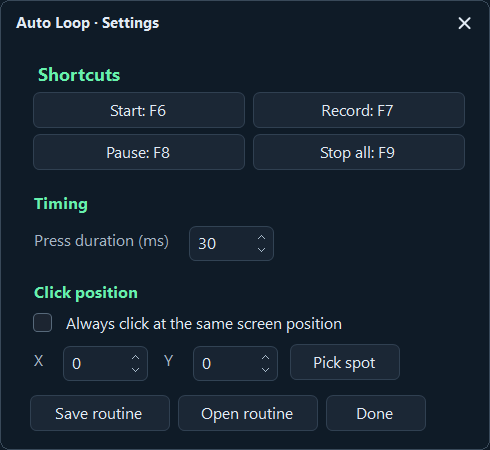
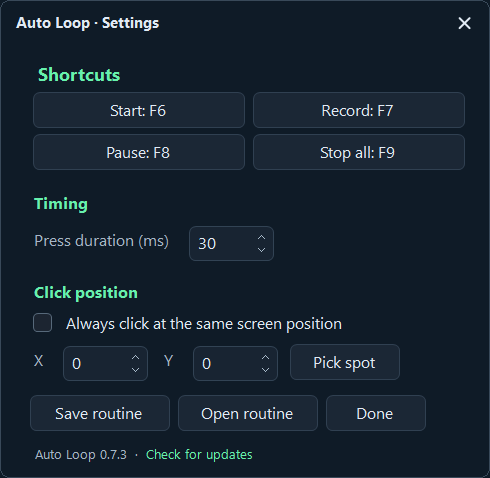
Auto Loop 0.7.3: exact speed, safer settings, version in Settings
- Settings shows the version and a Check for updates link
- Repeats keep the configured speed; 1 ms timer while playing
- Damaged settings.xml kept as settings.bad.xml, never overwritten
- Internal and hook errors reported as errors
- Recording stops cleanly if Windows drops the input hooks
- 82 self-tests (was 77); refreshed screenshot and docs

diff --git a/AutoLoop.cs b/AutoLoop.cs
@@ -12,8 +12,8 @@ using System.Xml.Serialization;
 
 [assembly: System.Reflection.AssemblyTitle("Auto Loop")]
 [assembly: System.Reflection.AssemblyProduct("Auto Loop")]
-[assembly: System.Reflection.AssemblyVersion("0.7.2.0")]
-[assembly: System.Reflection.AssemblyFileVersion("0.7.2.0")]
+[assembly: System.Reflection.AssemblyVersion("0.7.3.0")]
+[assembly: System.Reflection.AssemblyFileVersion("0.7.3.0")]
 namespace AutoLoop {
     public class Step {
         public string Kind = "Wait";
@@ -203,6 +203,8 @@ namespace AutoLoop {
         readonly Dictionary<uint,bool> elevationCache=new Dictionary<uint,bool>(); bool? selfElevated;
         // Input that happens this close to a focus change is treated as the action that caused it.
         const int FocusSwitchWindowMs=250;
+        const string ReleasesUrl="https://github.com/RikkYS/Auto-Loop/releases/latest";
+        internal static string AppVersion{get{Version v=typeof(MainForm).Assembly.GetName().Version;return v.Major+"."+v.Minor+"."+v.Build;}}
         // Waits may shorten by up to one timer tick to keep the repeat rate exact. A longer stall restarts the schedule instead, so presses never merge.
         const long MaxCatchUpMs=16;
         public static string KeyName(int key) { return new KeysConverter().ConvertToString((Keys)key); }
@@ -290,7 +292,7 @@ namespace AutoLoop {
 
         void ScaleCompactFonts(Control root){List<Control> all=new List<Control>();Action<Control> walk=null;walk=delegate(Control c){all.Add(c);foreach(Control child in c.Controls)walk(child);};walk(root);float fontFactor=0.74f*UiScale.Simulated,itemFactor=0.74f*UiScale.Layout;Font[] fonts=all.Select(c=>new Font(c.Font.FontFamily,c.Font.Size*fontFactor,c.Font.Style)).ToArray();for(int i=0;i<all.Count;i++){all[i].Font=fonts[i];DarkComboBox combo=all[i] as DarkComboBox;if(combo!=null)combo.ItemHeight=(int)(combo.ItemHeight*itemFactor);}keyCapture.Size=mouse.Size;events.ItemHeight=UiScale.Px(24);recordCount.Visible=false;}
         void BuildSettings() {
-            settingsWindow=new ThemedDialog{Text="Auto Loop · Settings",ClientSize=new Size(490,450),Font=new Font("Segoe UI",12),BackColor=bg,ForeColor=ink,StartPosition=FormStartPosition.CenterParent,FormBorderStyle=FormBorderStyle.None,MaximizeBox=false,MinimizeBox=false};
+            settingsWindow=new ThemedDialog{Text="Auto Loop · Settings",ClientSize=new Size(490,478),Font=new Font("Segoe UI",12),BackColor=bg,ForeColor=ink,StartPosition=FormStartPosition.CenterParent,FormBorderStyle=FormBorderStyle.None,MaximizeBox=false,MinimizeBox=false};
             FlowLayoutPanel page=new FlowLayoutPanel{Dock=DockStyle.Fill,Padding=new Padding(18),FlowDirection=FlowDirection.TopDown,WrapContents=false,AutoScroll=true};settingsWindow.Controls.Add(page);
             page.Controls.Add(new Label{Text="Shortcuts",Font=new Font("Segoe UI",13,FontStyle.Bold),AutoSize=true,ForeColor=accent});
             FlowLayoutPanel keyRow=new FlowLayoutPanel{Width=446,Height=88,WrapContents=true};string[] names={"Start","Record","Pause","Stop"};for(int i=0;i<4;i++){int n=i;shortcuts[i]=ButtonFor(names[i],212);shortcuts[i].Click+=delegate{ChangeShortcut(n);};keyRow.Controls.Add(shortcuts[i]);}page.Controls.Add(keyRow);
@@ -299,7 +301,11 @@ namespace AutoLoop {
             page.Controls.Add(new Label{Text="Click position",Font=new Font("Segoe UI",12,FontStyle.Bold),AutoSize=true,ForeColor=accent,Margin=new Padding(0,12,0,5)});
             fixedPosition=new MintCheckBox{Text="Always click at the same screen position",AutoSize=true};page.Controls.Add(fixedPosition);
             FlowLayoutPanel position=Row();position.Dock=DockStyle.None;position.Width=446;position.Height=42;px=Number(-100000,100000,0,85);py=Number(-100000,100000,0,85);Button pick=ButtonFor("Pick spot",110);tips.SetToolTip(pick,"Click here, then click the spot on screen Auto Loop should click.");pick.Click+=delegate{settingsWindow.Hide();StartPick(PickKind.Spot);};position.Controls.Add(LabelFor("X"));position.Controls.Add(px);position.Controls.Add(LabelFor("Y"));position.Controls.Add(py);position.Controls.Add(pick);page.Controls.Add(position);
-            FlowLayoutPanel files=Row();files.Dock=DockStyle.None;files.Width=446;files.Height=44;Button save=ButtonFor("Save routine",140);save.Click+=delegate{SaveRoutine();};Button open=ButtonFor("Open routine",140);open.Click+=delegate{LoadRoutine();};Button done=ButtonFor("Done",100);done.DialogResult=DialogResult.OK;files.Controls.Add(save);files.Controls.Add(open);files.Controls.Add(done);page.Controls.Add(files);settingsWindow.AcceptButton=done;settingsWindow.CancelButton=done;
+            FlowLayoutPanel files=Row();files.Dock=DockStyle.None;files.Width=446;files.Height=44;Button save=ButtonFor("Save routine",140);save.Click+=delegate{SaveRoutine();};Button open=ButtonFor("Open routine",140);open.Click+=delegate{LoadRoutine();};Button done=ButtonFor("Done",100);done.DialogResult=DialogResult.OK;files.Controls.Add(save);files.Controls.Add(open);files.Controls.Add(done);page.Controls.Add(files);
+            string about="Auto Loop "+AppVersion+"  ·  ",check="Check for updates";
+            LinkLabel version=new LinkLabel{Text=about+check,AutoSize=true,Font=new Font("Segoe UI",10),ForeColor=muted,LinkColor=accent,ActiveLinkColor=accent,VisitedLinkColor=accent,LinkBehavior=LinkBehavior.HoverUnderline,LinkArea=new LinkArea(about.Length,check.Length),Margin=new Padding(3,8,0,0)};
+            version.LinkClicked+=delegate{try{Process.Start(ReleasesUrl);}catch(System.ComponentModel.Win32Exception e){Message("Could not open the browser: "+e.Message);}};
+            page.Controls.Add(version);settingsWindow.AcceptButton=done;settingsWindow.CancelButton=done;
             settingsWindow.FormClosing+=delegate(object sender,FormClosingEventArgs e){if(e.CloseReason==CloseReason.UserClosing){e.Cancel=true;settingsWindow.Hide();}};
         }
 

diff --git a/GUIDE.md b/GUIDE.md
@@ -74,6 +74,8 @@ Recordings replay **screen positions**. Auto Loop doesn't recognize buttons or w
 
 Click a shortcut in **Settings** and press the new key or key combination (Esc cancels). If another app already uses the default function keys, Auto Loop switches to Ctrl+Alt+F6–F9 and shows the active keys on its buttons. Playback can't start until a global Stop shortcut works.
 
+The bottom of Settings shows which version you have. **Check for updates** opens the latest release on GitHub; Auto Loop never connects to the internet by itself.
+
 ## Why playback pauses
 
 The status bar at the top of the screen shows the reason; hover over the status line in the main window for more detail.
@@ -88,4 +90,4 @@ While Auto Loop counts down, plays or records, Windows won't go to sleep or turn
 
 ## Files
 
-Auto Loop keeps `settings.xml` and the `Routines` folder next to `Auto Loop.exe`. `settings.xml` holds your shortcuts and the settings you used last, so Auto Loop opens the way you left it (recordings are only kept when you save them). If Windows doesn't let it write there, the status line says **Settings not saved**. Move Auto Loop to a folder you own, such as one in Documents. Copy those files along if you move Auto Loop.
+Auto Loop keeps `settings.xml` and the `Routines` folder next to `Auto Loop.exe`. `settings.xml` holds your shortcuts and the settings you used last, so Auto Loop opens the way you left it (recordings are only kept when you save them). If Windows doesn't let it write there, the status line says **Settings not saved**. Move Auto Loop to a folder you own, such as one in Documents. Copy those files along if you move Auto Loop. If `settings.xml` is damaged, Auto Loop starts with default settings, keeps the old file as `settings.bad.xml` and says so on the status line.

diff --git a/CHANGELOG.md b/CHANGELOG.md
@@ -1,5 +1,20 @@
 # Changelog
 
+## 0.7.3 (2026-11-19)
+
+Reliability fixes and a version line in Settings. The main window looks exactly the same.
+
+### Added
+- The bottom of **Settings** shows your version and a **Check for updates** link to the latest release.
+
+### Fixed
+- **Exact speed**: each repeat is timed from its planned start and Windows' timer runs at 1 ms while playing, so the real speed now matches the interval (a 100 ms interval could run up to about 10% slow before).
+- A damaged or invalid `settings.xml` is no longer silently replaced: it is kept as `settings.bad.xml` and the status line says so.
+- Internal errors are reported as errors instead of "input could not be sent", and an error inside the input hooks now stops safely and is reported instead of being hidden.
+- If Windows stops passing input to the recorder, the recording stops and keeps what was captured instead of silently missing input.
+- The countdown ring no longer creates new fonts and brushes for every frame.
+- 82 built-in checks (up from 77).
+
 ## 0.7.2 (2026-11-18)
 
 A polished look; same size, layout and behavior.

diff --git a/README.md b/README.md
@@ -47,7 +47,7 @@ Needs 64-bit Windows 10 or 11 with .NET Framework 4.x, which is already installe
 > **"Windows protected your PC"?** The EXE isn't code-signed yet, so SmartScreen may warn you the first time. Choose **More info → Run anyway**. You can check the download against `SHA256SUMS.txt` from the release:
 >
 > ```powershell
-> Get-FileHash ".\Auto-Loop-0.7.2-Portable.zip" -Algorithm SHA256
+> Get-FileHash ".\Auto-Loop-0.7.3-Portable.zip" -Algorithm SHA256
 > ```
 
 **Virus scan:** [VirusTotal results for Auto Loop 0.7.2](https://www.virustotal.com/gui/file/9e5f07acc6c8cb455502b62976ba6731887e1e2d907e5f418c2ac719295b39b7). 2 of 69 scanners (Bkav Pro and SecureAge) flag it with generic detections that unsigned tools which send clicks and keys often get. Microsoft Defender, Kaspersky, ESET, Bitdefender, Malwarebytes and the others report it clean, and the source code is here for anyone to check.
